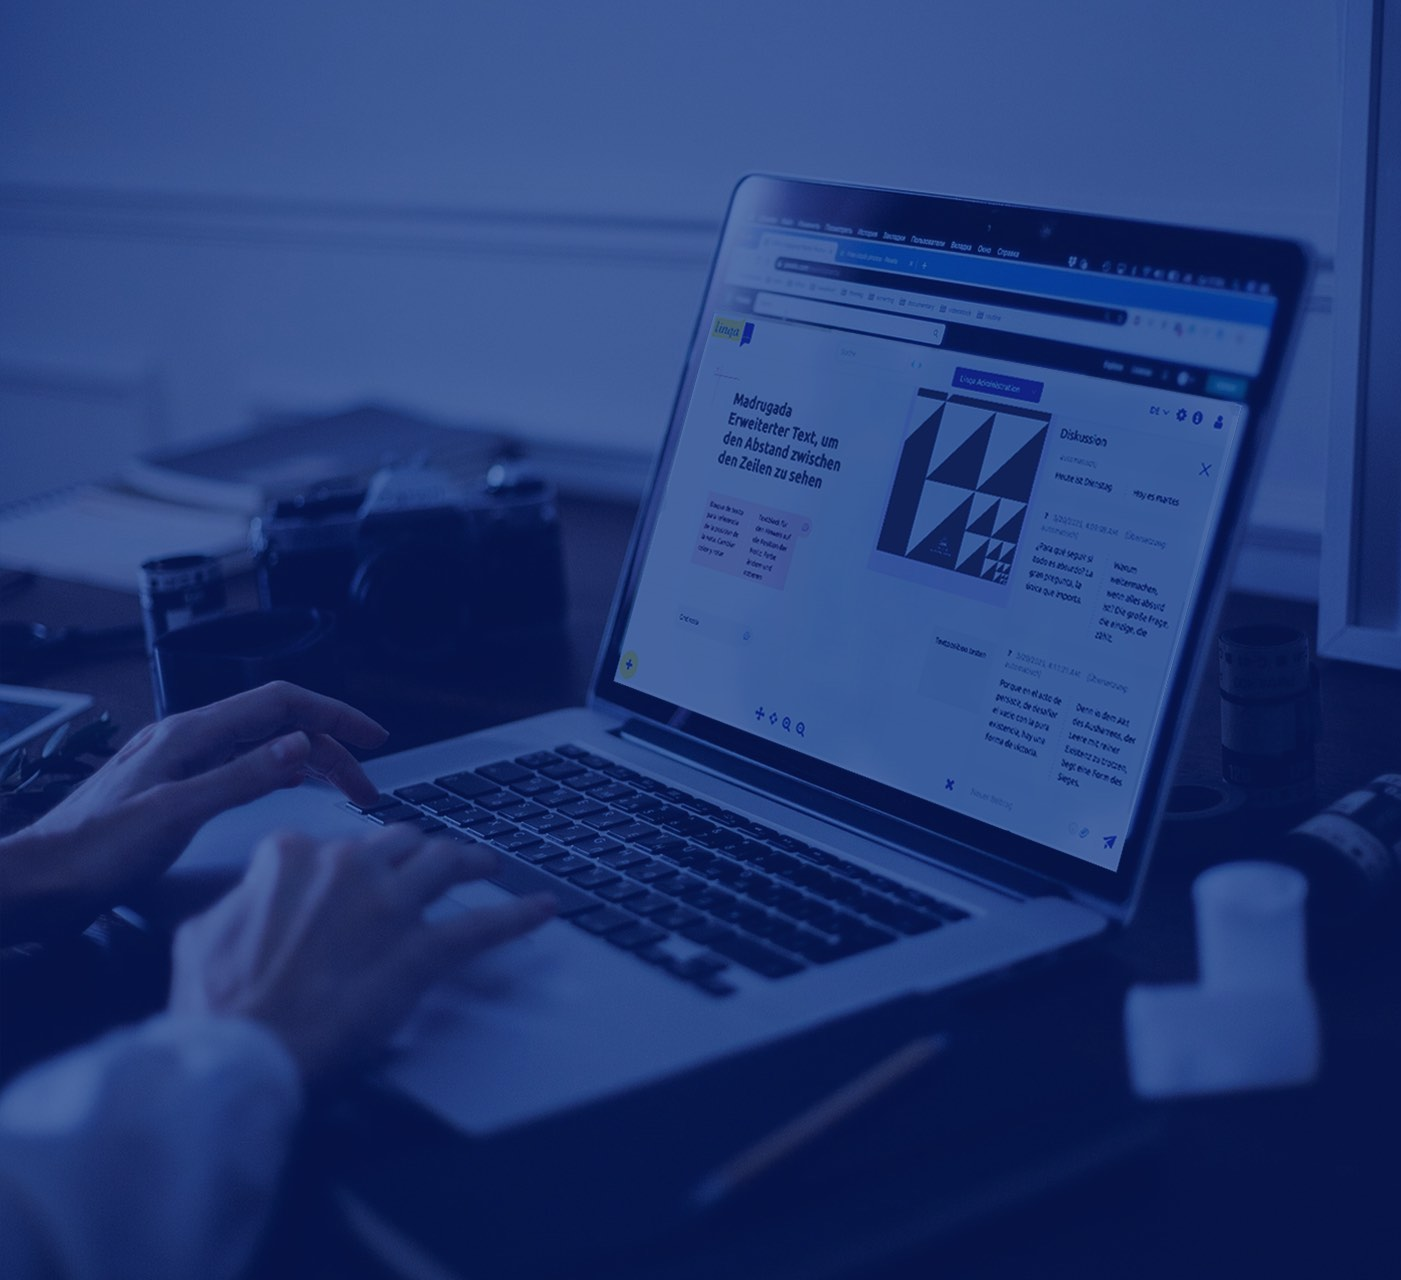
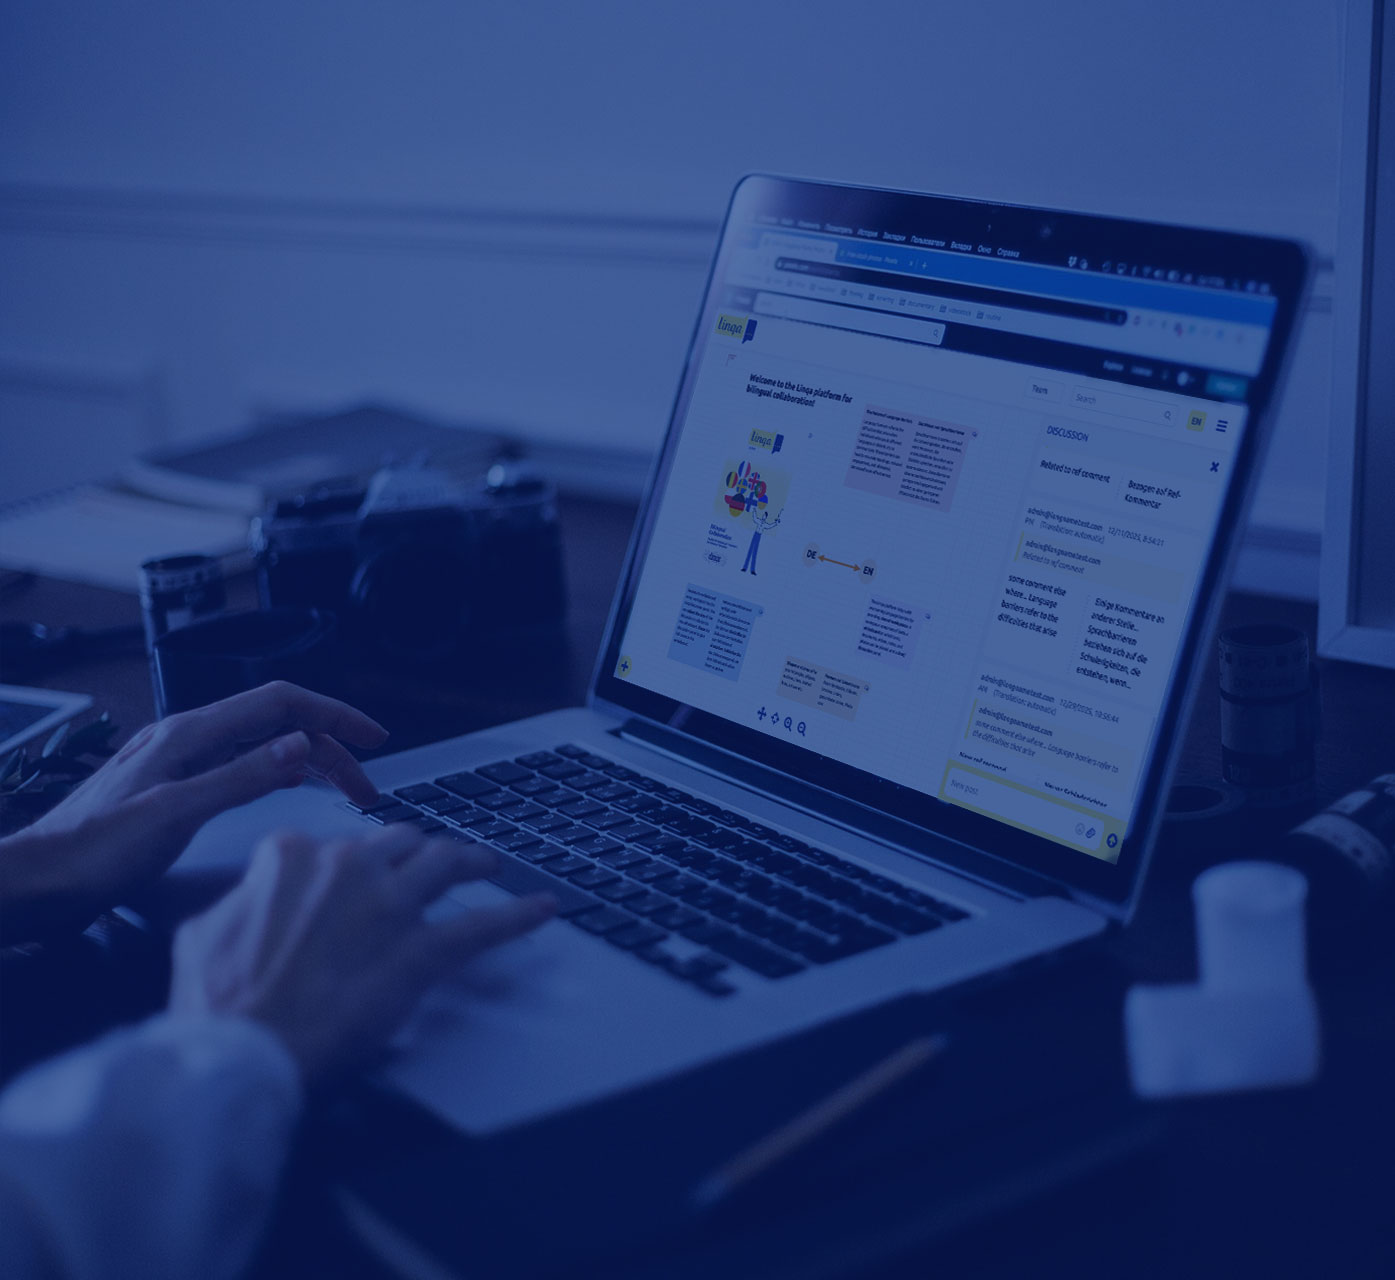
close button fix and front image update

diff --git a/src/main/js/components/lq-discussion.vue b/src/main/js/components/lq-discussion.vue
@@ -1,10 +1,8 @@
 <template>
   <div class="lq-discussion" v-show="panelVisibility">
     <lq-resizer></lq-resizer>
-    <div><div class="lq-discussion-header">
-      <lq-string class="heading">label.discussion</lq-string>
-      <el-button class="close-button fa fa-times" type="primary" link :title="closeTooltip" @click="close"></el-button>
-    </div>
+    <el-button class="close-button fa fa-times" type="primary" link :title="closeTooltip" @click="close"></el-button>
+    <lq-string class="heading">label.discussion</lq-string>
     <!-- Filter -->
     <div class="filter-wrapper" v-if="discussionFilter">
       <div class="filter">
@@ -13,7 +11,6 @@
           @click="resetDiscussionFilter">
         </el-button>
       </div>
-    </div>
     </div>
     <!-- Comments -->
     <div v-if="noComments" class="secondary"><lq-string html>label.no_comments</lq-string></div>
@@ -298,25 +295,20 @@ export default {
   box-shadow: -5px 3px 6px -3px rgba(237,237,237,0.75);
   -webkit-box-shadow: -5px 3px 6px -3px rgba(237,237,237,0.75);
   -moz-box-shadow: -5px 3px 6px -3px rgba(237,237,237,0.75);
-  justify-content: space-between;
 }
 
-.lq-discussion .lq-discussion-header {
-  display:flex;
-  height:50px;
-  padding: 0 15px;
-  align-items: center;
-  color: var(--primary-color);
-  text-transform: uppercase;
-  justify-content: space-between;
-  font-size: 16px;
-}
-
-.lq-discussion .lq-discussion-header > .close-button {
+.lq-discussion > .close-button {
+  position: absolute;
+  top: 10px;
+  right: 15px;
   font-size: 22px;
 }
 
 .lq-discussion > .heading {
+  font-size: 16px;
+  padding: 14px 14px 14px 22px;
+  text-transform: uppercase;
+  color: var(--primary-color);
 }
 
 .lq-discussion .filter-wrapper {
@@ -339,11 +331,9 @@ export default {
 }
 
 .lq-discussion .comments {
-  /* height: unset;        Element Plus default el-scrollbar height of 100% attaches new-comment panel to */
+  height: unset;        /* Element Plus default el-scrollbar height of 100% attaches new-comment panel to */
                         /* window bottom. We want new-comment panel always be attached to comments. */
-  /* margin-bottom: 75px;   For desktop? or global. */
-  padding-bottom: 10px;
-  min-height: 100px;    /* To show spinner while loading */
+  margin-bottom: 75px;  /* For desktop? or global. */
 }
 
 .lq-discussion .comments .lq-comment {
@@ -357,9 +347,10 @@ export default {
 .lq-discussion .new-comment-container {
   display: flex;
   align-items: flex-end;
+  margin-top: 20px;
   background-color: #fff481;
   padding: 10px;
-  position: relative;
+  position: absolute;
   width: 100%;
   bottom: 0px;
 }

diff --git a/src/main/js/components/mixins/viewport.js b/src/main/js/components/mixins/viewport.js
@@ -23,7 +23,7 @@ export default {
     iconStyle () {
       return {
         'font-size': `${1.4 / this.zoom}rem`,     // icons need to be bigger than text    // TODO 18px, 24px for mobile
-        'margin': `${0.4 / this.zoom}vh ${0.9 / this.zoom}vw`,
+        'margin': `${0.4 / this.zoom}vh ${0.7 / this.zoom}vw`,
       }
     },
 
